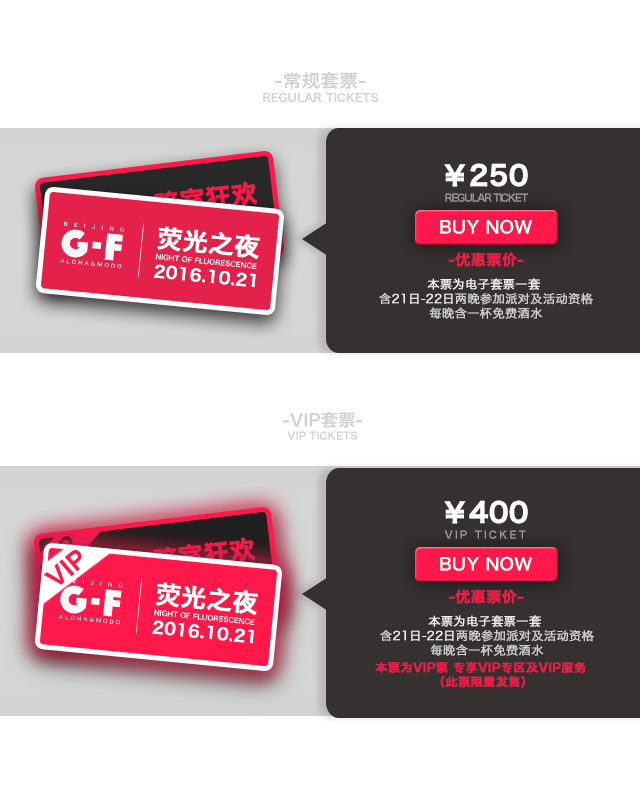
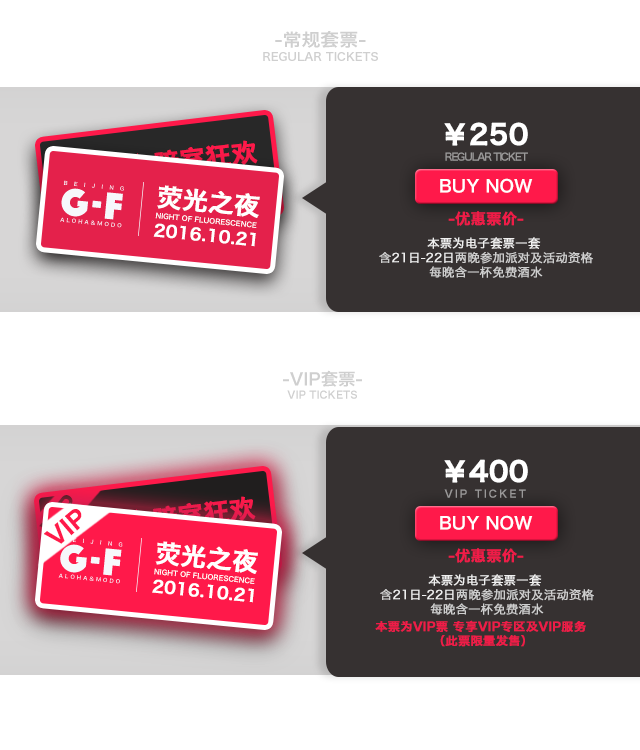
add touch tip

diff --git a/css/main.css b/css/main.css
@@ -1053,14 +1053,14 @@ body{
 
 .scene-title{
 	position: absolute;
-	top:10%;
+	top:8%;
 	width: 100%;
 }
 
 .scene-ticket-body{
 	position: absolute;;
 	width:100%;
-	top:20%;
+	top:18%;
 }
 .ticket-a{
 	position: absolute;
@@ -1118,7 +1118,7 @@ body{
 	width:48%;
 	position: absolute;
 	left: 0;
-	top: 20%;
+	top: 18%;
 
 
 }
@@ -1126,7 +1126,7 @@ body{
 	width:48%;
 	position: absolute;
 	right: 0;
-	top: 20%;
+	top: 18%;
 	
 }
 
